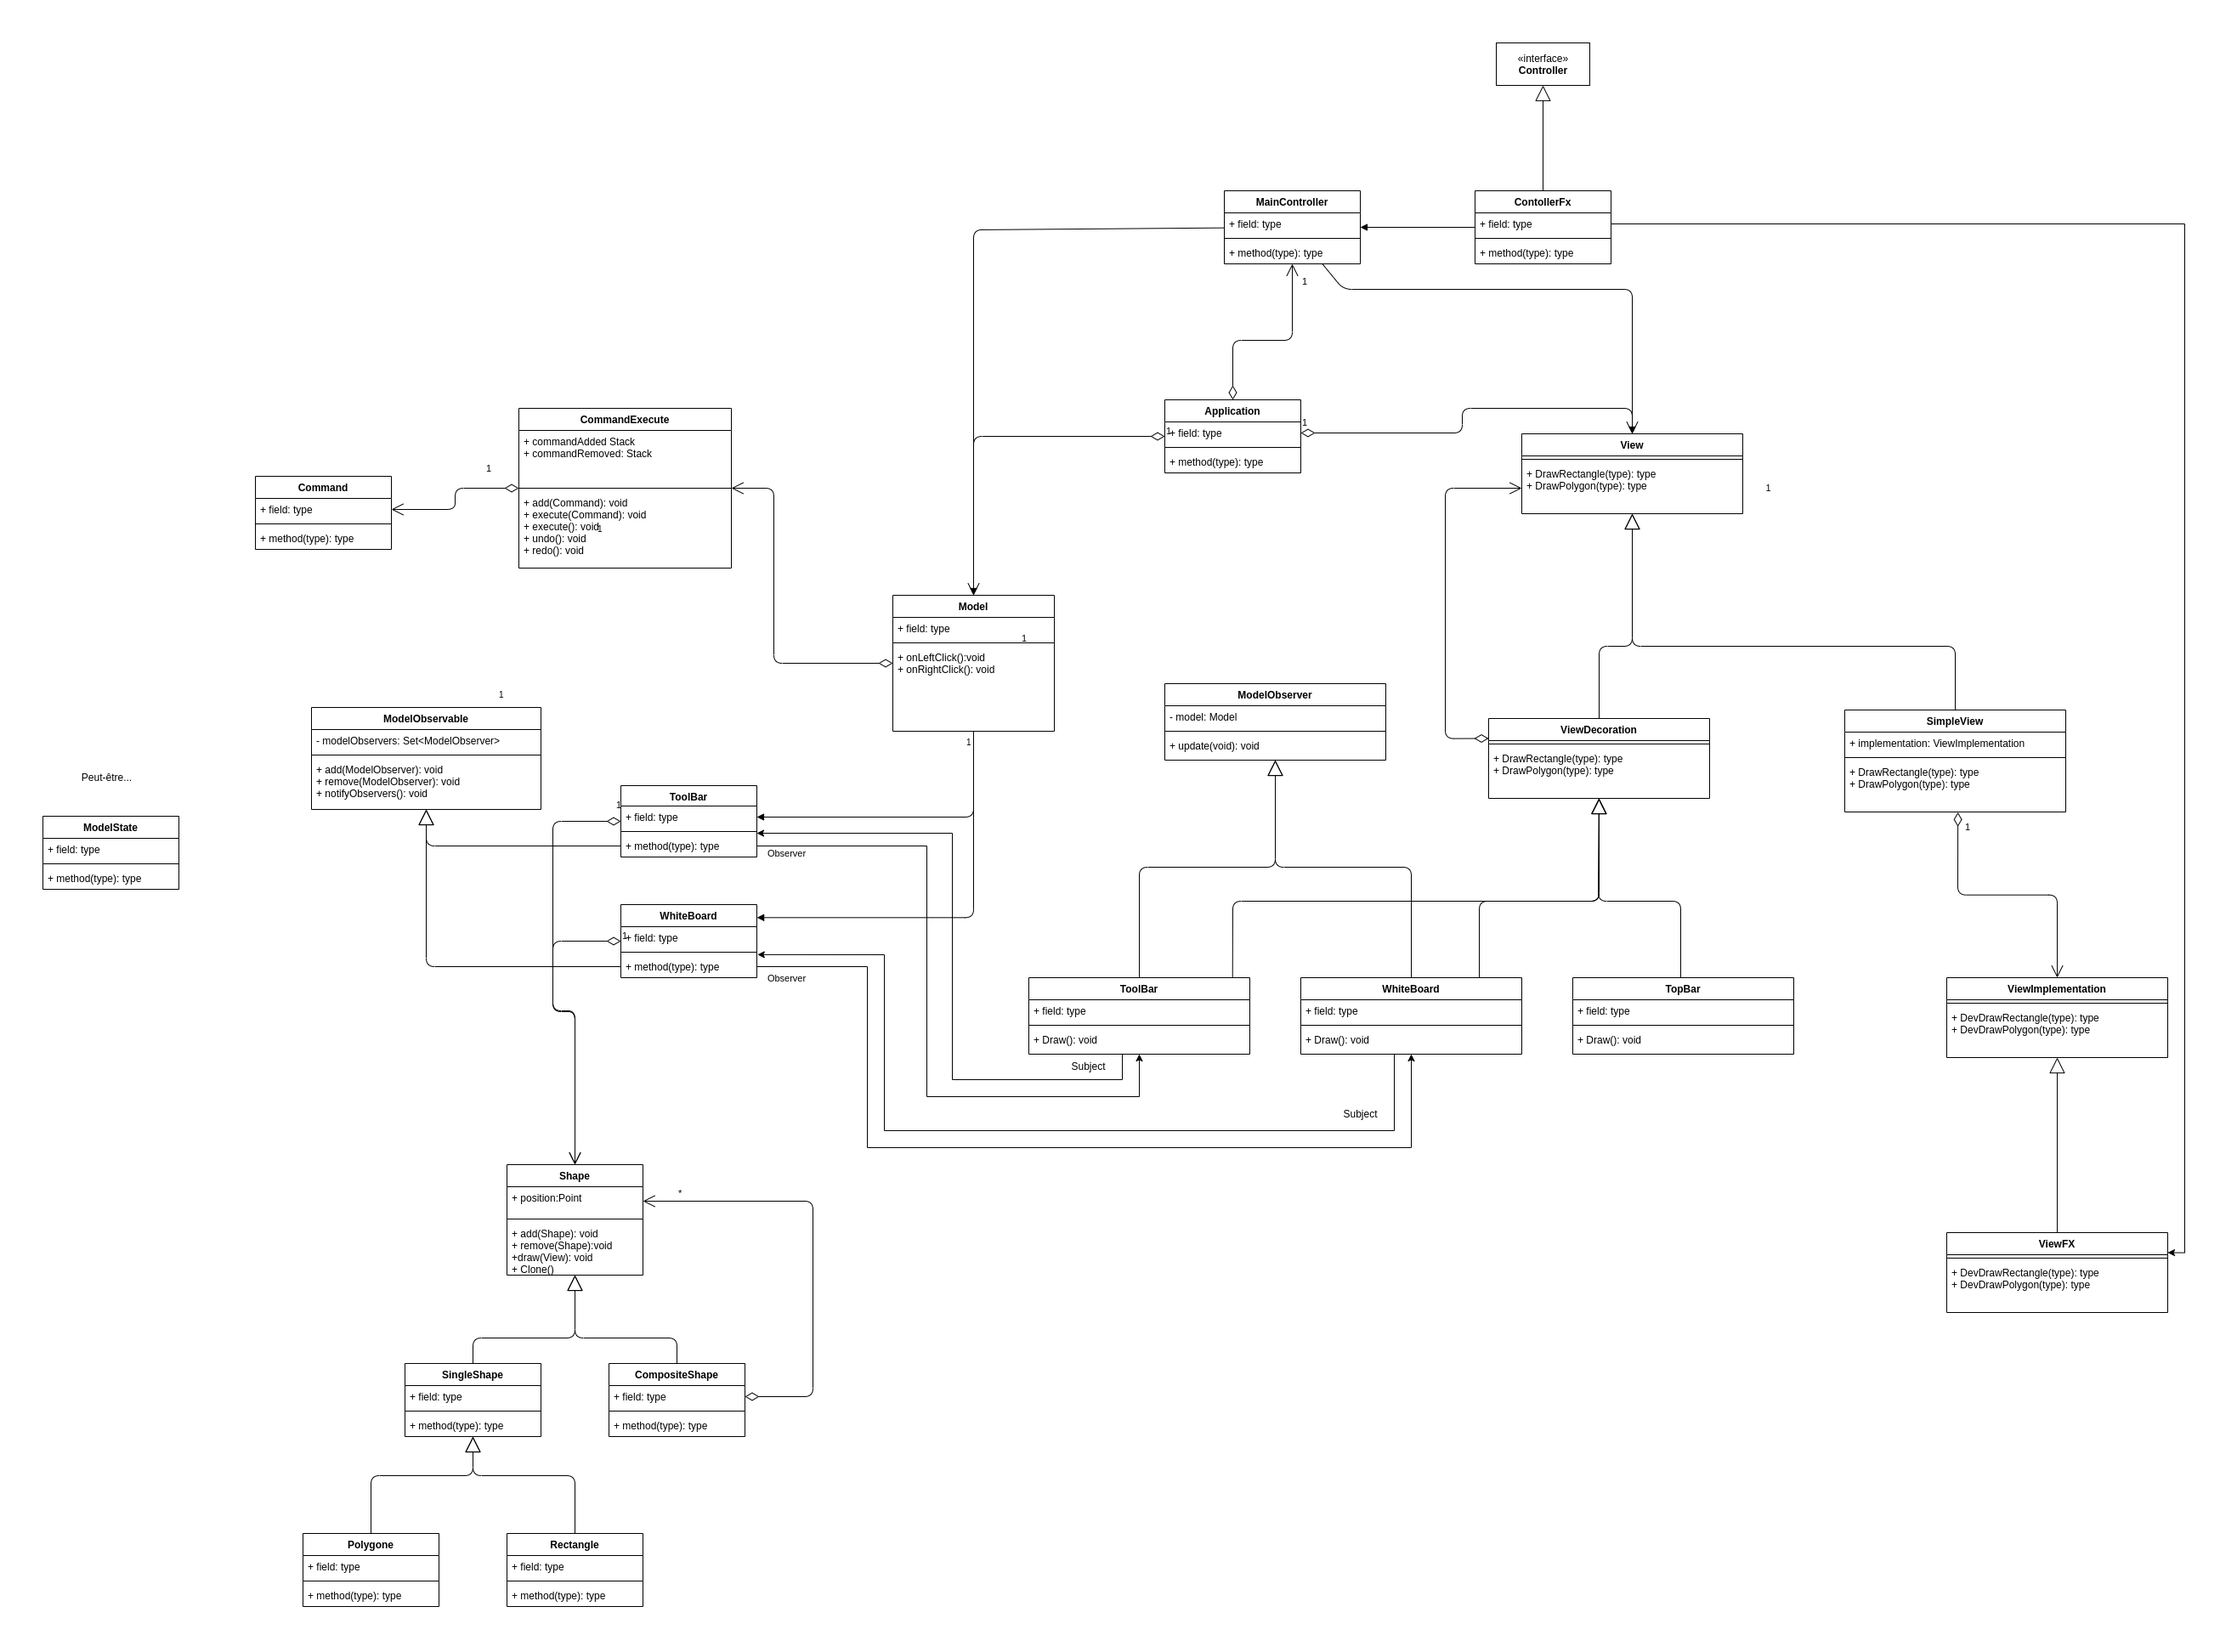
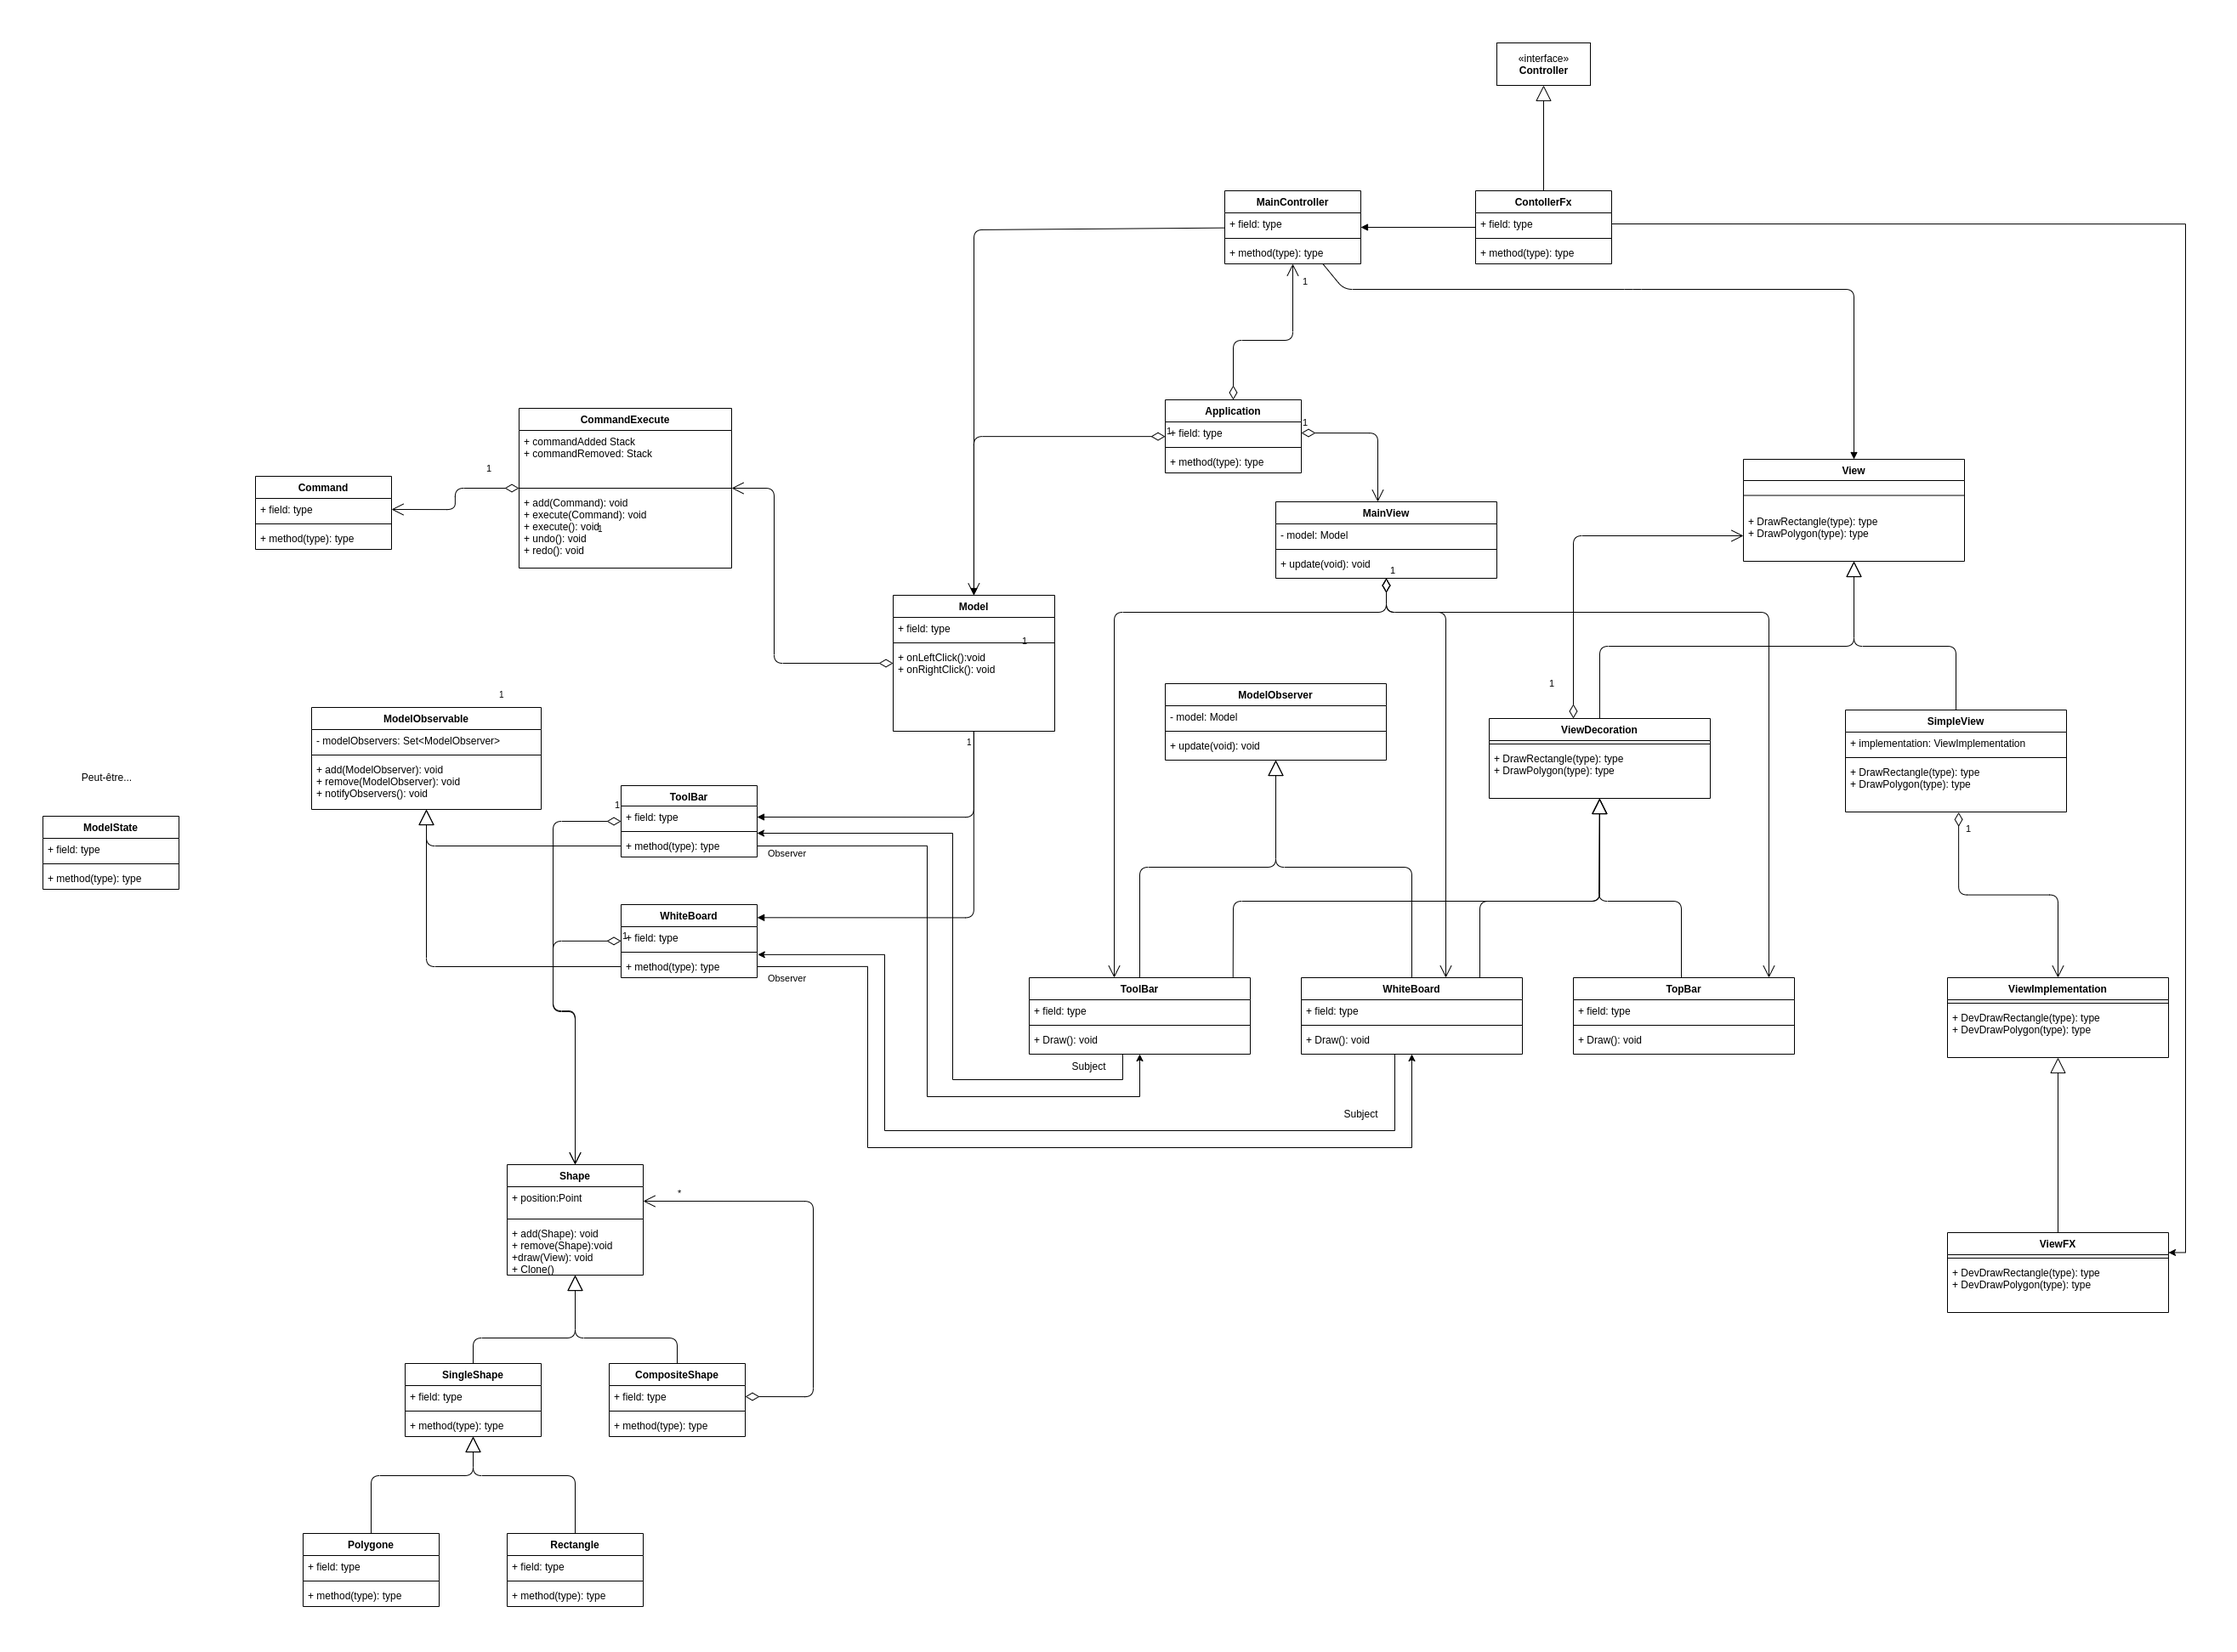
Add mainView

diff --git a/src/main/java/application/controller/MainController.java b/src/main/java/application/controller/MainController.java
@@ -7,11 +7,12 @@ import application.model.shape.Shape;
 import application.ui.javafx.ViewFx;
 import application.utils.ShapeContainer;
 import application.view.ConcreteViewItf;
+import application.view.MainView;
 import application.view.View;
 
 public class MainController {
     private Model model;
-    private View view;
+    private MainView view;
     private Controller controllerImp;
 
     private Shape holdedShape;
@@ -20,7 +21,7 @@ public class MainController {
     private boolean clickLeft, drag, select, menu;
     private int beginX,beginY,endX,endY;
 
-    public MainController(Model model, View view, ConcreteViewItf viewImp) {
+    public MainController(Model model, MainView view, ConcreteViewItf viewImp) {
         this.model = model;
         this.view = view;
 
@@ -44,9 +45,9 @@ public class MainController {
         else if(this.model.getWhiteBoard().isIn((int)x,(int)y)){
             System.out.println("Click on the whiteboard");
 
-            if (select && !(this.menu && view.clickOnGroup((int) x , (int) y))){
+            if (select && !(this.menu && view.getWhiteBoard().clickOnGroup((int) x , (int) y))){
                 select = false;
-                view.undrawSelect(Math.min(endX, beginX),
+                view.getWhiteBoard().undrawSelect(Math.min(endX, beginX),
                         Math.min(endY, beginY),
                         Math.abs(beginX - endX),
                         Math.abs(beginY - endY)
@@ -71,7 +72,7 @@ public class MainController {
     public void onRightClickPressed(double x, double y) {
         System.out.println("Right Click pressed on " + x + " " + y);
         if( !menu){
-            view.addPopUpMenu((int)x,(int)y);
+            view.getWhiteBoard().addPopUpMenu((int)x,(int)y);
             menu = true;
         }
 
@@ -87,7 +88,7 @@ public class MainController {
             this.endY = (int) y;
             this.select = true;
 
-            this.view.drawSelection(
+            this.view.getWhiteBoard().drawSelection(
                     Math.min(endX, beginX),
                     Math.min(endY, beginY),
                     Math.abs(beginX - endX),
@@ -97,12 +98,12 @@ public class MainController {
         }
 
         else if(this.menu){
-            if(view.clickOnGroup((int) x , (int) y) && select) {
-                view.undrawSelect(Math.min(endX, beginX),
+            if(view.getWhiteBoard().clickOnGroup((int) x , (int) y) && select) {
+                view.getWhiteBoard().undrawSelect(Math.min(endX, beginX),
                         Math.min(endY, beginY),
                         Math.abs(beginX - endX),
                         Math.abs(beginY - endY));
-                view.undrawMenu();
+                view.getWhiteBoard().undrawMenu();
                 this.model.execute(new AddComposite(this.model.getWhiteBoard(), beginX, beginY,endX,endY));
                 this.model.update();
             }

diff --git a/src/main/java/application/Main.java b/src/main/java/application/Main.java
@@ -1,16 +1,17 @@
 package application;
 
-import application.controller.Controller;
-import application.controller.ControllerFx;
 import application.controller.MainController;
 import application.model.Model;
 import application.ui.javafx.ViewFx;
 import application.view.*;
+import application.view.areas.ToolBarView;
+import application.view.areas.TopBarView;
+import application.view.areas.WhiteBoardView;
 
 
 public class Main {
     private static Model model;
-    private static View view;
+    private static MainView view;
     private static MainController controller;
 
     public static void main(String[] args) {
@@ -26,15 +27,12 @@ public class Main {
         ViewFx viewFx = new ViewFx(model);
         View simpleView = new SimpleView(viewFx);
 
-        WhiteBoardView whiteBoard = new WhiteBoardView(simpleView, model.getWhiteBoard());
-        ToolBarView toolBar = new ToolBarView(whiteBoard, model.getToolBar());
-        TopBarView topBar = new TopBarView(whiteBoard, model.getTopBar());
+        view = new MainView(model, simpleView);
 
-        model.getToolBar().attachObserver(toolBar);
-        model.getWhiteBoard().attachObserver(whiteBoard);
-        model.getTopBar().attachObserver(topBar);
+        model.getToolBar().attachObserver(view.getToolBar());
+        model.getWhiteBoard().attachObserver(view.getWhiteBoard());
+        model.getTopBar().attachObserver(view.getTopBar());
 
-        view = toolBar;
         controller = new MainController(model, view, viewFx);
         viewFx.initViewFx();
     }

diff --git a/src/main/java/application/view/MainView.java b/src/main/java/application/view/MainView.java
@@ -1,0 +1,34 @@
+package application.view;
+
+import application.model.Model;
+import application.view.areas.ToolBarView;
+import application.view.areas.TopBarView;
+import application.view.areas.WhiteBoardView;
+
+public class MainView {
+    private ToolBarView toolBar;
+    private TopBarView topBar;
+    private WhiteBoardView whiteBoard;
+
+    private Model model;
+
+    public MainView(Model model, View viewImp) {
+        this.model = model;
+
+        this.toolBar    = new ToolBarView(viewImp, model.getToolBar());
+        this.topBar     = new TopBarView(viewImp, model.getTopBar());
+        this.whiteBoard = new WhiteBoardView(viewImp, model.getWhiteBoard());
+    }
+
+    public TopBarView getTopBar() {
+        return this.topBar;
+    }
+
+    public ToolBarView getToolBar() {
+        return toolBar;
+    }
+
+    public WhiteBoardView getWhiteBoard() {
+        return whiteBoard;
+    }
+}

diff --git a/src/main/java/application/view/areas/WhiteBoardView.java b/src/main/java/application/view/areas/WhiteBoardView.java
@@ -1,4 +1,4 @@
-package application.view;
+package application.view.areas;
 
 import application.model.Model;
 import application.model.areas.WhiteBoard;
@@ -6,6 +6,8 @@ import application.model.shape.Rectangle;
 import application.model.shape.Shape;
 import application.utils.ModelObserver;
 import application.utils.Color;
+import application.view.View;
+import application.view.ViewDecorator;
 
 public class WhiteBoardView extends ViewDecorator implements ModelObserver {
     private WhiteBoard whiteBoard;

diff --git a/src/main/java/application/view/areas/ToolBarView.java b/src/main/java/application/view/areas/ToolBarView.java
@@ -1,4 +1,4 @@
-package application.view;
+package application.view.areas;
 
 import application.model.Model;
 import application.model.areas.ToolBar;
@@ -6,6 +6,8 @@ import application.model.shape.Rectangle;
 import application.model.shape.Shape;
 import application.utils.Color;
 import application.utils.ModelObserver;
+import application.view.View;
+import application.view.ViewDecorator;
 
 public class ToolBarView extends ViewDecorator implements ModelObserver {
     private ToolBar toolBar;

diff --git a/src/main/java/application/view/areas/TopBarView.java b/src/main/java/application/view/areas/TopBarView.java
@@ -1,9 +1,11 @@
-package application.view;
+package application.view.areas;
 
 import application.model.areas.TopBar;
 import application.model.shape.Rectangle;
 import application.utils.Color;
 import application.utils.ModelObserver;
+import application.view.View;
+import application.view.ViewDecorator;
 
 public class TopBarView extends ViewDecorator implements ModelObserver {
     private TopBar topBar;

diff --git a/src/main/java/application/model/Model.java b/src/main/java/application/model/Model.java
@@ -29,9 +29,6 @@ public class Model {
         this.topBar     = new TopBar(this);
         this.toolBar    = new ToolBar(this);
         this.whiteBoard = new WhiteBoard(this);
-
-
-
     }
 
     public void update() {
